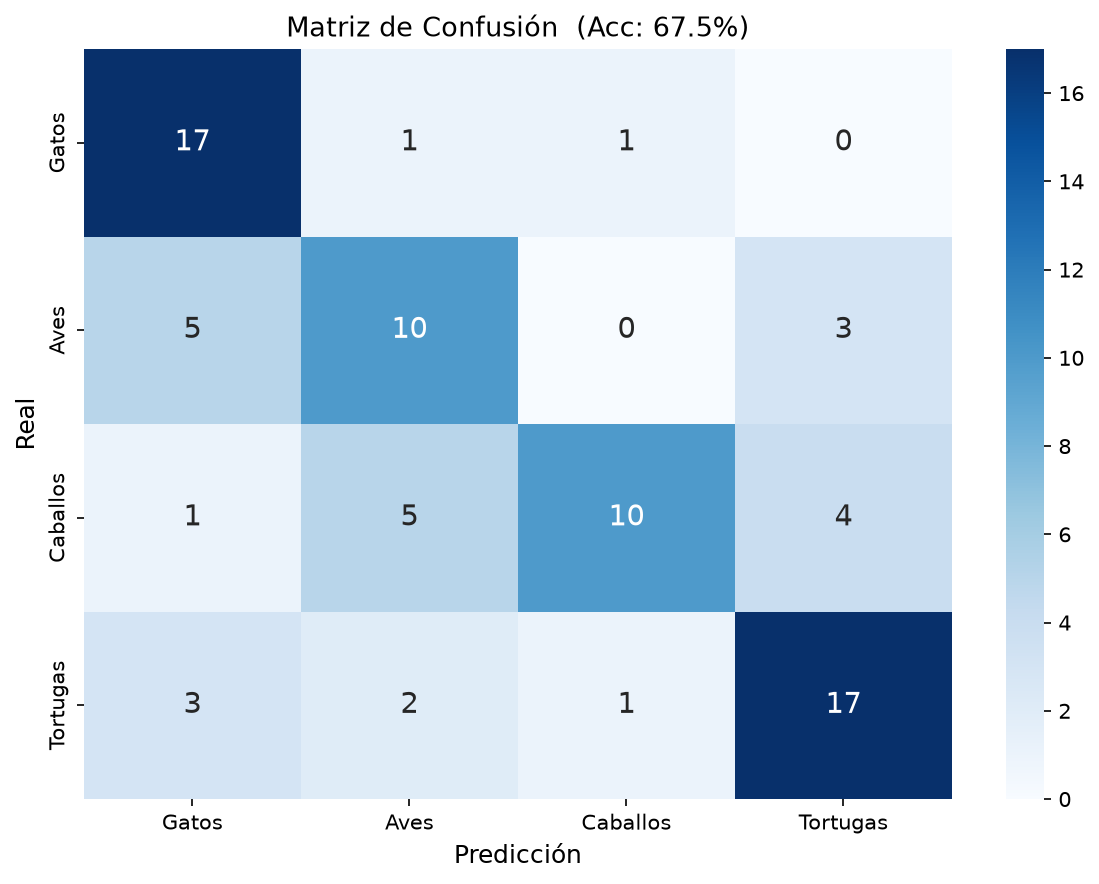
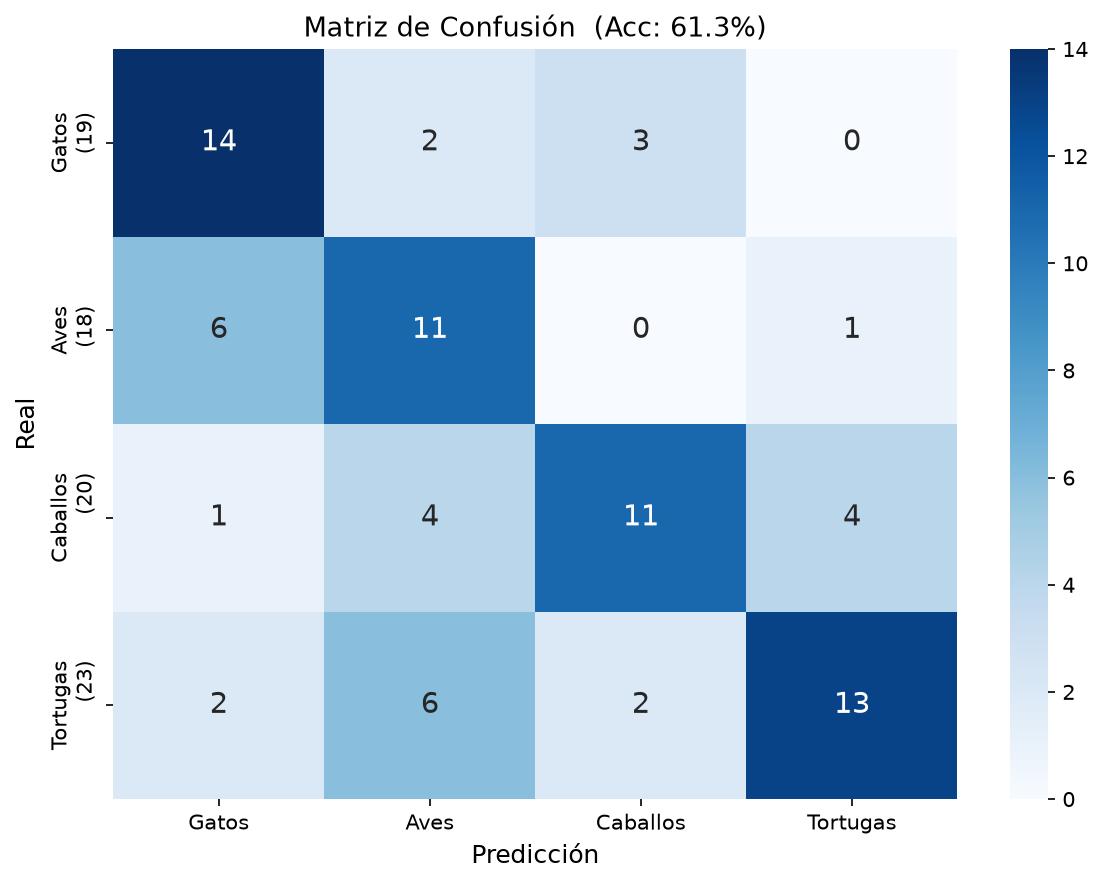
probando modelos

diff --git a/tp_4/part_1.py b/tp_4/part_1.py
@@ -52,8 +52,8 @@ def tp4():
     #     3) Reduce la carga computacional
 
     FILTERS = [32, 64, 128]  # 32 filtros en 1ra capa, 64 en 2da
-    KERNEL_SIZES = [3, 3, 3]  # ventana 3×3 (estándar mínimo)
-    CONV_STRIDES = [1, 1]  # píxel por píxel (no submuestrear)
+    KERNEL_SIZES = [5, 3, 3]  # ventana 3×3 (estándar mínimo)
+    CONV_STRIDES = [1, 1, 1]  # píxel por píxel (no submuestrear)
     CONV_PADDING = "valid"  # "same" conserva tamaño, "valid" lo reduce
     POOL_SIZES = [2, 2, 2]  # ventana 2×2 para el pooling
     POOL_STRIDES = [2, 2, 2]  # stride=2 → reduce a la mitad
@@ -63,7 +63,7 @@ def tp4():
     DENSE_UNITS = [256, 128]  # Neuronas de las capas ocultas
 
     # ─── Entrenamiento ────────────────────────────────────────────
-    EPOCHS = 1000
+    EPOCHS = 50
     BATCH_SIZE = 16
     LEARNING_RATE = 0.001
     OPTIMIZER = "adam"

diff --git a/tp_4/addons/functions.py b/tp_4/addons/functions.py
@@ -145,6 +145,11 @@ def evaluar(model, x_test, y_test, clases, output_dir=None):
     # Matriz de confusión
     cm = confusion_matrix(y_true_c, y_pred_c)
 
+    # Totales reales por fila para mostrarlos en las etiquetas
+    # (así se ve cuántos había de cada clase, ej: "Gatos (19)")
+    totales_fila = cm.sum(axis=1)
+    etiq_reales = [f"{c}\n({totales_fila[i]})" for i, c in enumerate(clases)]
+
     plt.figure(figsize=(8, 6))
     sns.heatmap(
         cm,
@@ -152,7 +157,7 @@ def evaluar(model, x_test, y_test, clases, output_dir=None):
         fmt="d",
         cmap="Blues",
         xticklabels=clases,
-        yticklabels=clases,
+        yticklabels=etiq_reales,
         annot_kws={"size": 14},
     )
     plt.title(f"Matriz de Confusión  (Acc: {acc*100:.1f}%)", fontsize=13)

diff --git a/tp_4/resumen.md b/tp_4/resumen.md
@@ -6,13 +6,17 @@ Todas las pruebas con 4 clases (Gatos, Aves, Caballos, Tortugas), 100 img/clase,
 
 ## 📊 TABLA COMPARATIVA
 
-| Prueba | IMG_SIZE | FILTERS | KERNEL | POOL_STRIDES | PADDING | DENSE | EPOCHS | **Acc** | **Loss** |
-|--------|----------|---------|--------|-------------|---------|-------|--------|---------|----------|
-| **1** ⚠ | 512 | [32,64] | [7,7] | [2,2] | same | [256,128] | 30 | **47.5%** | 4.25 |
-| **2** | 64 | [32,64,128] | [3,3,3] | [2,2,2] | same | [256,128] | 30 | **56.25%** | 2.50 |
-| **3** ✅ | 64 | [32,64] | [5,3] | [2,2] | same | [256,128] | 30 | **57.5%** | 2.93 |
-| **4** | 64 | [32,64] | [3,3] | [2,2] | same | [64,32] | 30 | **56.25%** | 2.16 |
-| **5** 🏆 | 128 | [32,64] | [3,3] | [2,2] | **valid** | [256,128] | 30 | **62.5%** | 2.22 |
+| # | IMG_SIZE | FILTERS | KERNEL | PADDING | DENSE | EPOCHS | **Acc** | **Loss** | Destacado |
+|---|----------|---------|--------|---------|-------|--------|---------|----------|-----------|
+| 1 | 512 | [32,64] | [7,7] | same | [256,128] | 30 | **47.5%** | 4.25 | ❌ |
+| 2 | 64 | [32,64,128] | [3,3,3] | same | [256,128] | 30 | **56.25%** | 2.50 | |
+| 3 | 64 | [32,64] | [5,3] | same | [256,128] | 30 | **57.5%** | 2.93 | |
+| 4 | 64 | [32,64] | [3,3] | same | [64,32] | 30 | **56.25%** | 2.16 | Mejor loss |
+| 5 | 128 | [32,64] | [3,3] | **valid** | [256,128] | 30 | **62.5%** | 2.22 | |
+| 6 | 128 | [32,64] | [3,3] | valid | [256,128] | **50** | **51.25%** | 3.00 | Sobreajuste |
+| 7 | 128 | [32,64] | [5,3] | valid | [256,128] | 50 | **52.5%** | 3.15 | |
+| **8** 🏆 | 128 | **[32,64,128]** | [3,3,3] | valid | [256,128] | 50 | **67.5%** | 3.47 | **Mejor accuracy** |
+| 9 | 128 | [32,64,128] | [5,3,3] | valid | [256,128] | **100** | **61.25%** | 3.66 | Sobreajuste |
 
 ---
 
@@ -33,29 +37,73 @@ IMG_SIZE=64, FILTERS=[32,64,128], KERNEL=[3,3,3], POOL_STRIDES=[2,2,2]
 > **3 capas Conv2D** ayudan a captar más patrones jerárquicos.
 > **Loss baja de 4.25 → 2.50** (la red aprende mucho mejor).
 
-### Prueba 3 — 57.5% ✅ (mejor hasta ese momento)
+### Prueba 3 — 57.5% ✅
 ```
 IMG_SIZE=64, KERNEL=[5,3], FILTERS=[32,64]
 ```
 > **Kernel 5×5 en primera capa** ve más contexto (25 píxeles vs 9 del 3×3).
-> Las **Tortugas** suben a 0.70 de recall (antes 0.57) → el kernel más grande ayuda a distinguir sus formas redondeadas.
+> Las **Tortugas** suben a 0.70 de recall (antes 0.57).
 
-### Prueba 4 — 56.25% ✅ (misma accuracy, mejor loss)
+### Prueba 4 — 56.25% ✅ (mejor loss)
 ```
 IMG_SIZE=64, DENSE=[64,32], KERNEL=[3,3]
 ```
-> **Loss más bajo: 2.16** (contra 2.93 de prueba 3). Menos neuronas densas = menos ruido.
-> **Tortugas 0.70** igual que prueba 3.
-> **Conclusión:** [64,32] es mejor que [256,128] para 64×64 — menos sobreajuste.
+> **Loss más bajo: 2.16.** Menos neuronas densas = menos ruido.
+> **Conclusión:** [64,32] es mejor que [256,128] para 64×64.
 
-### Prueba 5 — 62.5% 🏆 (la mejor)
+### Prueba 5 — 62.5% 🥈
 ```
-IMG_SIZE=128, PADDING='valid', KERNEL=[3,3]
+IMG_SIZE=128, PADDING='valid', KERNEL=[3,3], EPOCHS=30
 ```
 > **padding='valid'** reduce la imagen naturalmente (sin relleno de ceros).
-> Con 128×128 + valid: 128→126→63→61→30 (aprox). Mucha más resolución que 64×64.
 > **Gatos 0.84 recall** — muy bueno.
-> **Aves 0.44 recall** — sigue siendo la clase más difícil (plumas, texturas finas).
-> **Conclusión:** Más resolución + padding='valid' fue la mejor combinación.
+
+### Prueba 6 — 51.25% ❌ (la peor después de la 1)
+```
+Misma config que prueba 5 pero con EPOCHS=50 (más épocas)
+```
+> **Empeoró** respecto a prueba 5 (62.5% → 51.25%). Esto es **SOBREAJUSTE**: más épocas no siempre es mejor, la red empieza a memorizar.
+
+### Prueba 7 — 52.5% ⚠
+```
+KERNEL=[5,3] con IMG_SIZE=128 y valid
+```
+> **Kernel 5×5 no ayuda** con IMG_SIZE=128 y valid. La imagen se reduce mucho más rápido.
+
+### Prueba 8 — 67.5% 🏆 (LA MEJOR)
+```
+IMG_SIZE=128, FILTERS=[32,64,128], PADDING=valid, EPOCHS=50
+```
+> **3 capas Conv2D** aprenden patrones jerárquicos (bordes → texturas → formas).
+> **Gatos 0.89 recall** — excelente.
+> **Caballos 0.83 precision** — cuando predice caballo, acierta muy seguido.
+> **Aves 0.56 recall** — siguen siendo lo más difícil.
+
+### Prueba 9 — 61.25% ⚠
+```
+Misma config que prueba 8 pero con KERNEL=[5,3,3] y EPOCHS=100
+```
+> **100 épocas es demasiado.** Aunque mejor que prueba 8 en theory, el accuracy bajó (67.5 → 61.25). 
+> La red empieza a sobreajustar después de cierto punto.
 
 ---
+
+## 📈 HALLAZGOS CLAVE
+
+1. **padding='valid' es mejor que 'same'** — reduce progresivamente sin ceros artificiales
+2. **3 capas Conv2D superan a 2 capas** — [32,64,128] dio el mejor resultado (67.5%)
+3. **50 épocas es mejor que 100** — con pocos datos, más épocas = sobreajuste
+4. **Gatos** son la clase más fácil (recall 0.74-0.89)
+5. **Aves** son las más difíciles (recall 0.39-0.56) — plumas y texturas variadas
+6. **Kernel 5×5 en primera capa** da resultados mixtos — ayuda con 64×64, no con 128×128+valid
+
+---
+
+## 🚀 PRÓXIMOS EXPERIMENTOS SUGERIDOS
+
+| # | Configuración | Por qué |
+|---|--------------|---------|
+| **10** 🏆 | Prueba 8 + DENSE=[128,64] | Menos densas + 3 capas = menos sobreajuste |
+| **11** 🔥 | Prueba 8 + DENSE=[64,32] + EPOCHS=80 | Red más chica, más épocas controladas |
+| **12** 🧪 | IMG_SIZE=64, FILTERS=[32,64,128], valid, EPOCHS=50 | Misma config ganadora pero más rápido |
+| **13** 📊 | MAX_POR_CLASE=200 (si hay) | Más datos siempre ayuda |
